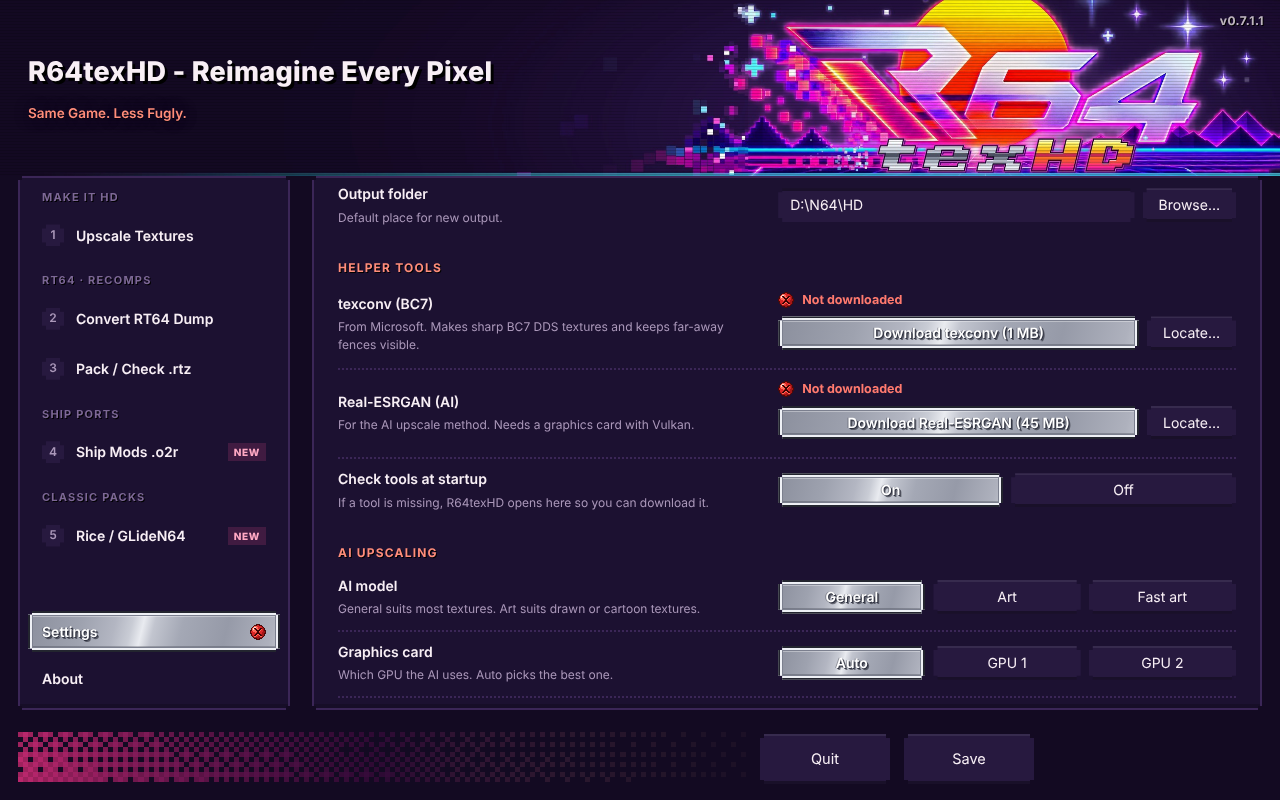
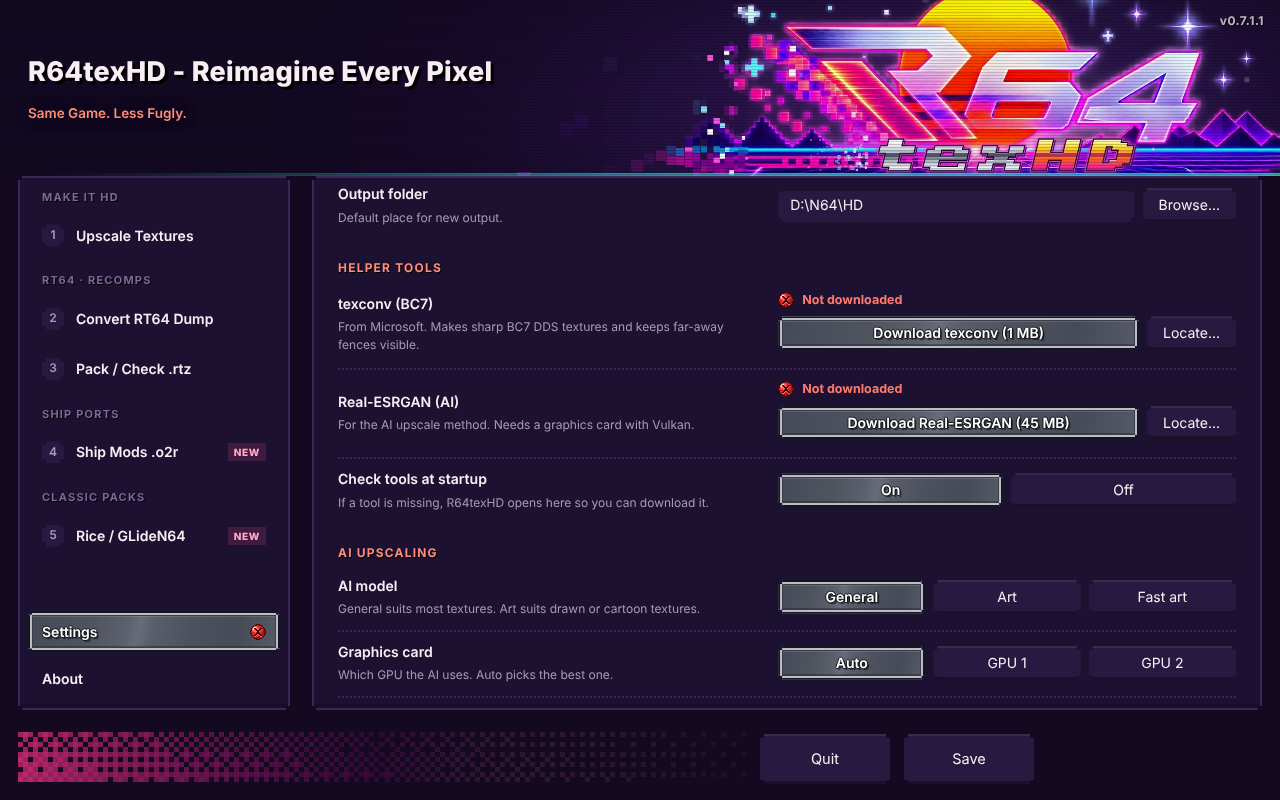
Silver buttons: darker gunmetal and softer reflections for readable text
White text on the light silver was hard to read. The plate is now a
darker gunmetal (every part at least 4.5:1 contrast with white), the
light streaks and hover shine are much softer, the inner rim is dimmer,
and the text has a full one-pixel dark outline plus its drop shadow.
README screenshots refreshed.

Claude-Session: https://claude.ai/code/session_01MGmgufkY67hNwJ4dKZUjyJ

diff --git a/app/ui/index.html b/app/ui/index.html
@@ -329,14 +329,14 @@ header::after { content: ""; position: absolute; inset: 0; pointer-events: none;
    silver, a bright inner rim, a dark pixel outline, chunky bevels, and a shine that sweeps across.
    Used for the selected / main buttons (menu item, chosen options, primary buttons, Run). */
 :root {
-  /* brushed silver, mid-grey like the reference, with hard-edged (pixel) light streaks */
+  /* darker gunmetal silver with soft streaks, so white text stays readable on every part of it */
   --silver: linear-gradient(104deg,
-    #8b8f9d 0%, #9ea2af 10%, #b3b6c2 16%, #c9ccd5 19%, #e9ebf0 21%, #c2c5cf 23%, #a4a8b5 28%,
-    #969aa8 36%, #aeb1bd 44%, #d5d8df 49%, #f6f7fa 51%, #d5d8df 53%, #a9adb9 58%,
-    #979ba9 66%, #a8acb8 74%, #cfd2da 80%, #f0f1f5 82.5%, #c0c3cd 85%, #9a9eab 92%, #8a8e9c 100%);
-  --silver-edge: inset 0 0 0 2px #23252f, inset 0 0 0 4px #eef0f5, inset 0 0 0 5px #7b7f8e,
-                 inset 0 6px 0 0 rgba(255,255,255,.35), inset 0 -6px 0 0 rgba(40,42,54,.28);
-  --silver-text: 1px 1px 0 #2f3240, 2px 2px 0 rgba(28,30,40,.55), -1px 0 0 rgba(28,30,40,.35);
+    #464a57 0%, #50545f 12%, #5c606c 18%, #686c79 20.5%, #5a5e6a 23%, #4d515d 30%,
+    #474b57 38%, #535763 44%, #626673 49%, #727684 51%, #626673 53%, #50545f 59%,
+    #484c58 67%, #50545f 75%, #5e626e 81%, #6c707d 83%, #5a5e6a 86%, #4b4f5b 93%, #444855 100%);
+  --silver-edge: inset 0 0 0 2px #15161c, inset 0 0 0 4px #b9bdc8, inset 0 0 0 5px #3b3e49,
+                 inset 0 6px 0 0 rgba(255,255,255,.12), inset 0 -6px 0 0 rgba(10,11,16,.3);
+  --silver-text: -1px 0 0 #15161c, 1px 0 0 #15161c, 0 -1px 0 #15161c, 0 1px 0 #15161c, 2px 2px 0 rgba(10,11,16,.6);
 }
 nav button.active, .seg button.on, .seg.modes button.on, .btn.primary, .card:not(.idle):not(.error) .btn.primary, .go:not(.cancel) {
   position: relative; overflow: hidden; isolation: isolate;
@@ -349,7 +349,7 @@ nav button.active .new { background: rgba(42,45,56,.35); color: #fff; }
 /* the shine: a bright pixel streak that sweeps across on hover (and now and then on the Run button) */
 nav button.active::after, .seg button.on::after, .btn.primary::after, .go:not(.cancel)::after {
   content: ""; position: absolute; top: 0; bottom: 0; left: -40%; width: 28%; z-index: -1; pointer-events: none;
-  background: linear-gradient(104deg, transparent 0, rgba(255,255,255,0) 20%, rgba(255,255,255,.85) 46%, #fff 50%, rgba(255,255,255,.85) 54%, rgba(255,255,255,0) 80%, transparent 100%);
+  background: linear-gradient(104deg, transparent 0, rgba(255,255,255,0) 20%, rgba(255,255,255,.22) 46%, rgba(255,255,255,.3) 50%, rgba(255,255,255,.22) 54%, rgba(255,255,255,0) 80%, transparent 100%);
   transform: skewX(-18deg); opacity: 0; }
 nav button.active:hover::after, .seg button.on:hover::after, .btn.primary:hover::after, .go:not(.cancel):hover::after { animation: silver-sweep .7s steps(10) 1; }
 .go:not(.cancel)::after { animation: silver-sweep-pause 6s steps(60) 3.5s infinite; }
@@ -357,7 +357,7 @@ nav button.active:hover::after, .seg button.on:hover::after, .btn.primary:hover:
 @keyframes silver-sweep-pause { 0% { left: -40%; opacity: 1; } 16% { left: 115%; opacity: 1; } 17%, 100% { left: 115%; opacity: 0; } }
 nav button.active:hover, .seg button.on:hover, .btn.primary:hover, .go:not(.cancel):hover { background-position: 30% 0 !important; }
 .btn.primary:active, .go:not(.cancel):active, .seg button.on:active {
-  transform: translateY(1px); box-shadow: inset 0 0 0 2px #2a2d38, inset 0 0 0 4px #c9ccd6, inset 0 0 0 5px #6e7282, inset 0 6px 0 0 rgba(40,42,54,.3) !important; }
+  transform: translateY(1px); box-shadow: inset 0 0 0 2px #2a2d38, inset 0 0 0 4px #8d919d, inset 0 0 0 5px #2f323c, inset 0 6px 0 0 rgba(10,11,16,.35) !important; }
 .go:not(.cancel) { font-size: 17px; }
 .btn.primary:disabled { filter: grayscale(.3) brightness(.85); }
 @media (prefers-reduced-motion: reduce) { nav button.active::after, .seg button.on::after, .btn.primary::after, .go::after { animation: none !important; } }
